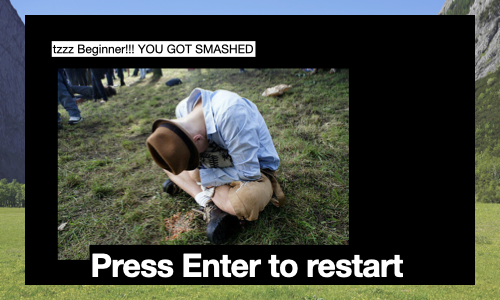
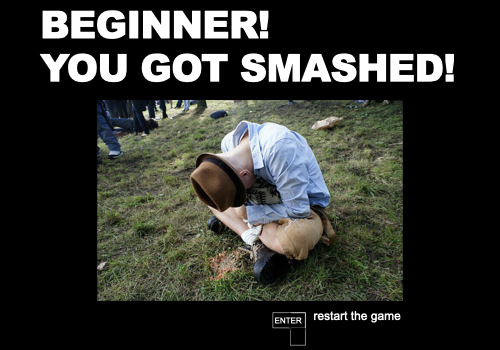
styling white

diff --git a/Game.js b/Game.js
@@ -10,10 +10,10 @@ class Game {
   }
 
   preload() {
-    this.startScreen = loadImage("./Screens/startScreen.png");
-    this.wonScreen = loadImage("./Screens/wonScreen.png");
-    this.lostScreenSmashed = loadImage("./Screens/lostScreen-smashed.png");
-    this.lostScreenSober = loadImage("./Screens/lostScreen-sober.png");
+    this.startScreen = loadImage("./Screens/startScreenWHITE.png");
+    this.wonScreen = loadImage("./Screens/wonScreenWHITE.png");
+    this.lostScreenSmashed = loadImage("./Screens/lostScreen-smashedWHITE.png");
+    this.lostScreenSober = loadImage("./Screens/lostScreen-soberWHITE.png");
   }
 
   draw() {

diff --git a/index.html b/index.html
@@ -7,10 +7,7 @@
     <link rel="stylesheet" href="style.css">
     <script src="https://cdnjs.cloudflare.com/ajax/libs/p5.js/0.9.0/p5.min.js"></script>
 </head>
-<body>
-    <h1>DRUNK BAVARIAN</h1>
-    <article>Make sure that you, bloody Bavarian, are neither too sober nor too drunk. Try it - at least for one minute!</article>
-    <article>Drink beer to bring your alcohol level up, drink water to lower your alcohol level.</article>
+<body>    
     <script src="constants.js"></script>
     <script src="Background.js"></script>
     <script src="Bar.js"></script>

diff --git a/style.css b/style.css
@@ -1,20 +1,15 @@
+* {
+  margin: 0;
+  padding: 0;
+  box-sizing: border-box;
+}
+
 body {
-  background-color: #000;
+  background-color: white;
+  margin: 50px;
 }
 
 canvas {
   margin: 0 auto;
   display: block;
-}
-
-h1 {
-  color: white;
-  font-family: BronxBystreets;
-}
-
-article {
-  color: black;
-  font-family: HelveticaNeue;
-  background-color: white;
-  width: 250px;
 }

diff --git a/main.js b/main.js
@@ -18,7 +18,7 @@ function setup() {
 
 function draw() {
   clear();
-  background("black");
+  background("white");
   game.draw();
 }
 
